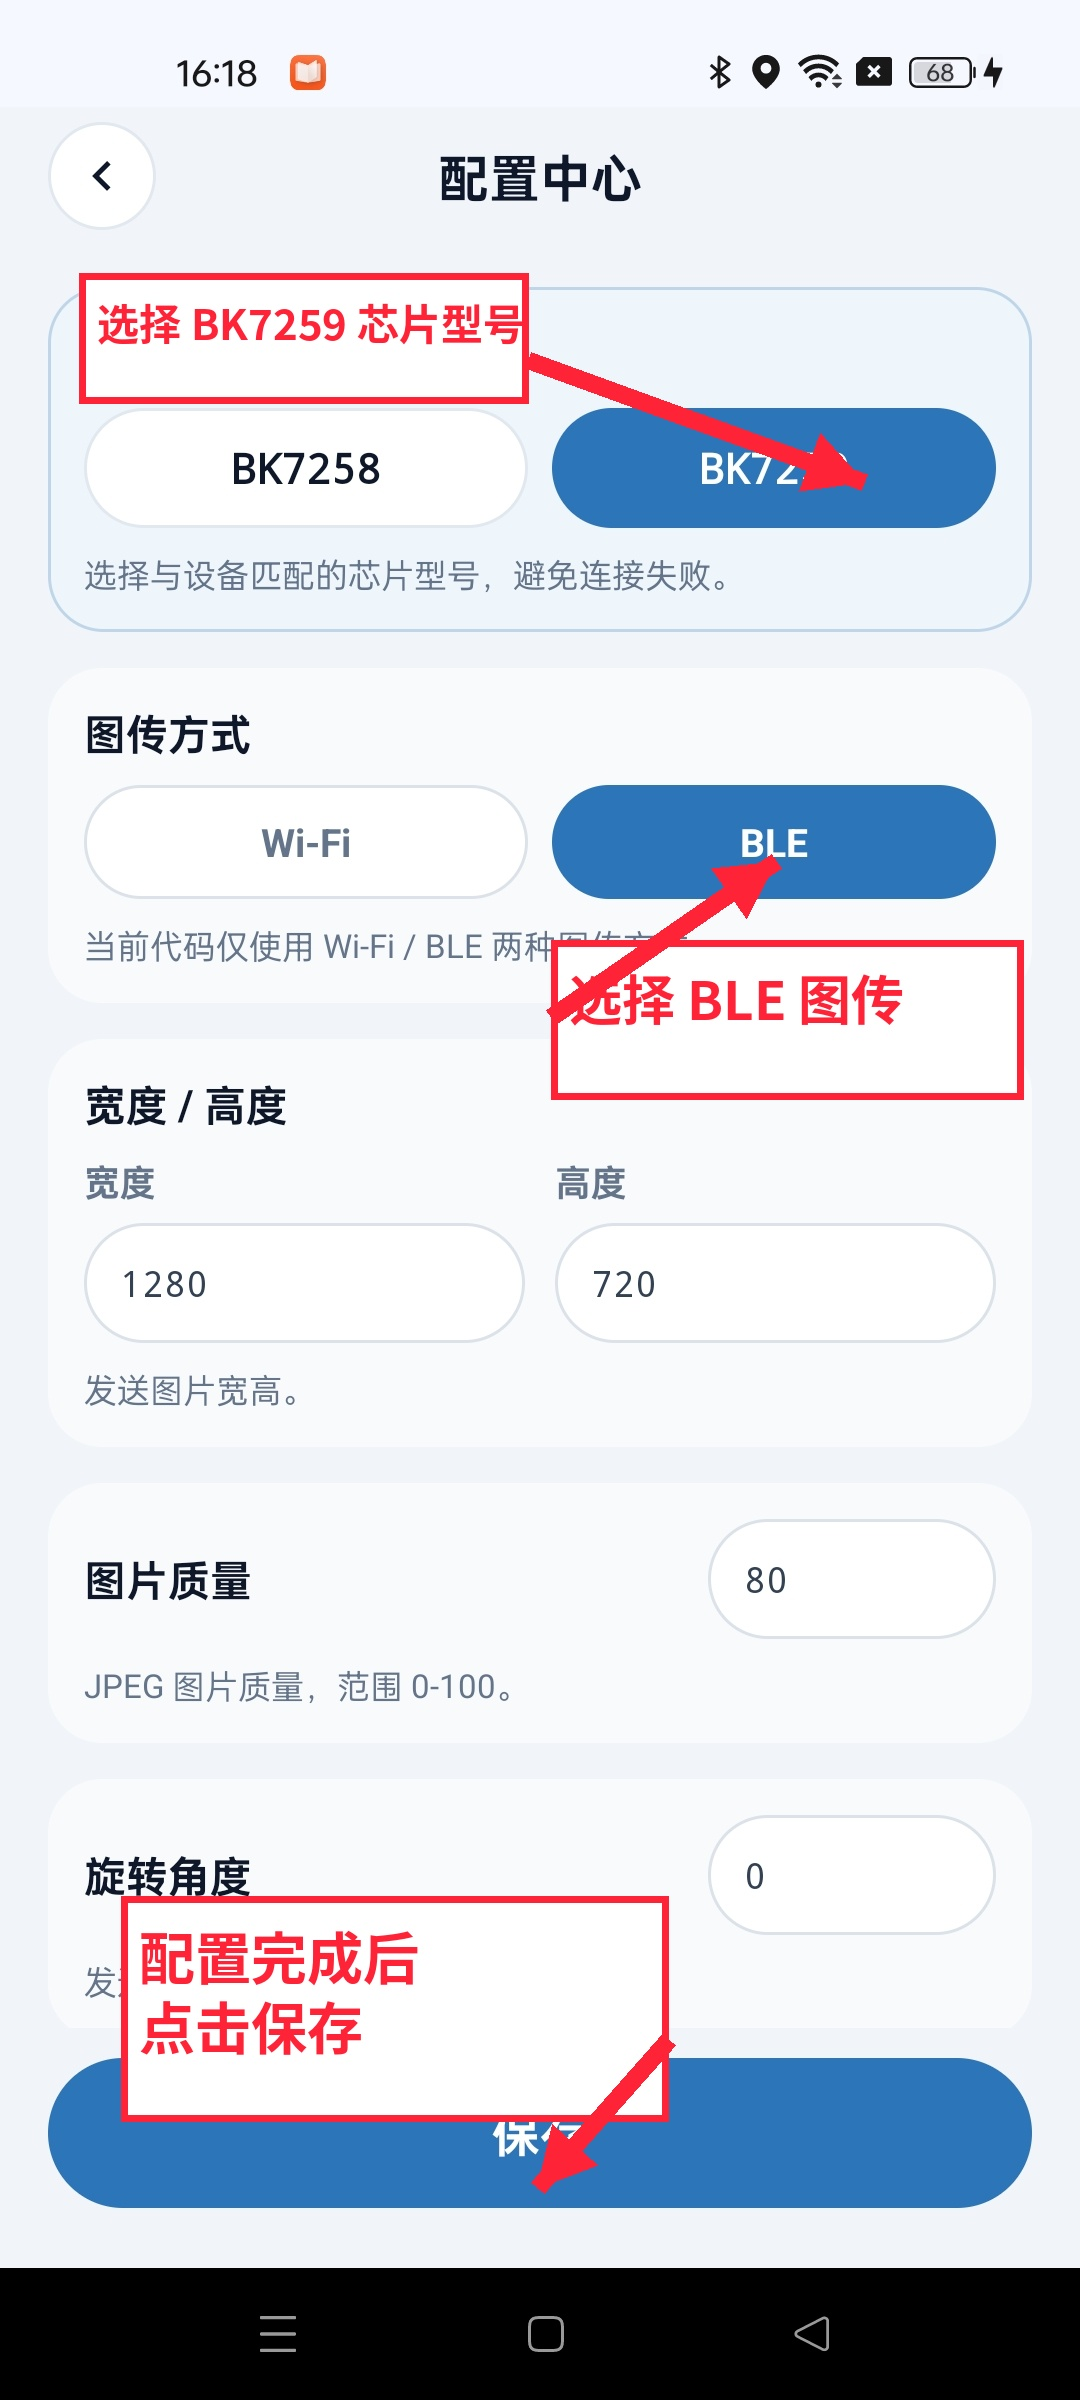
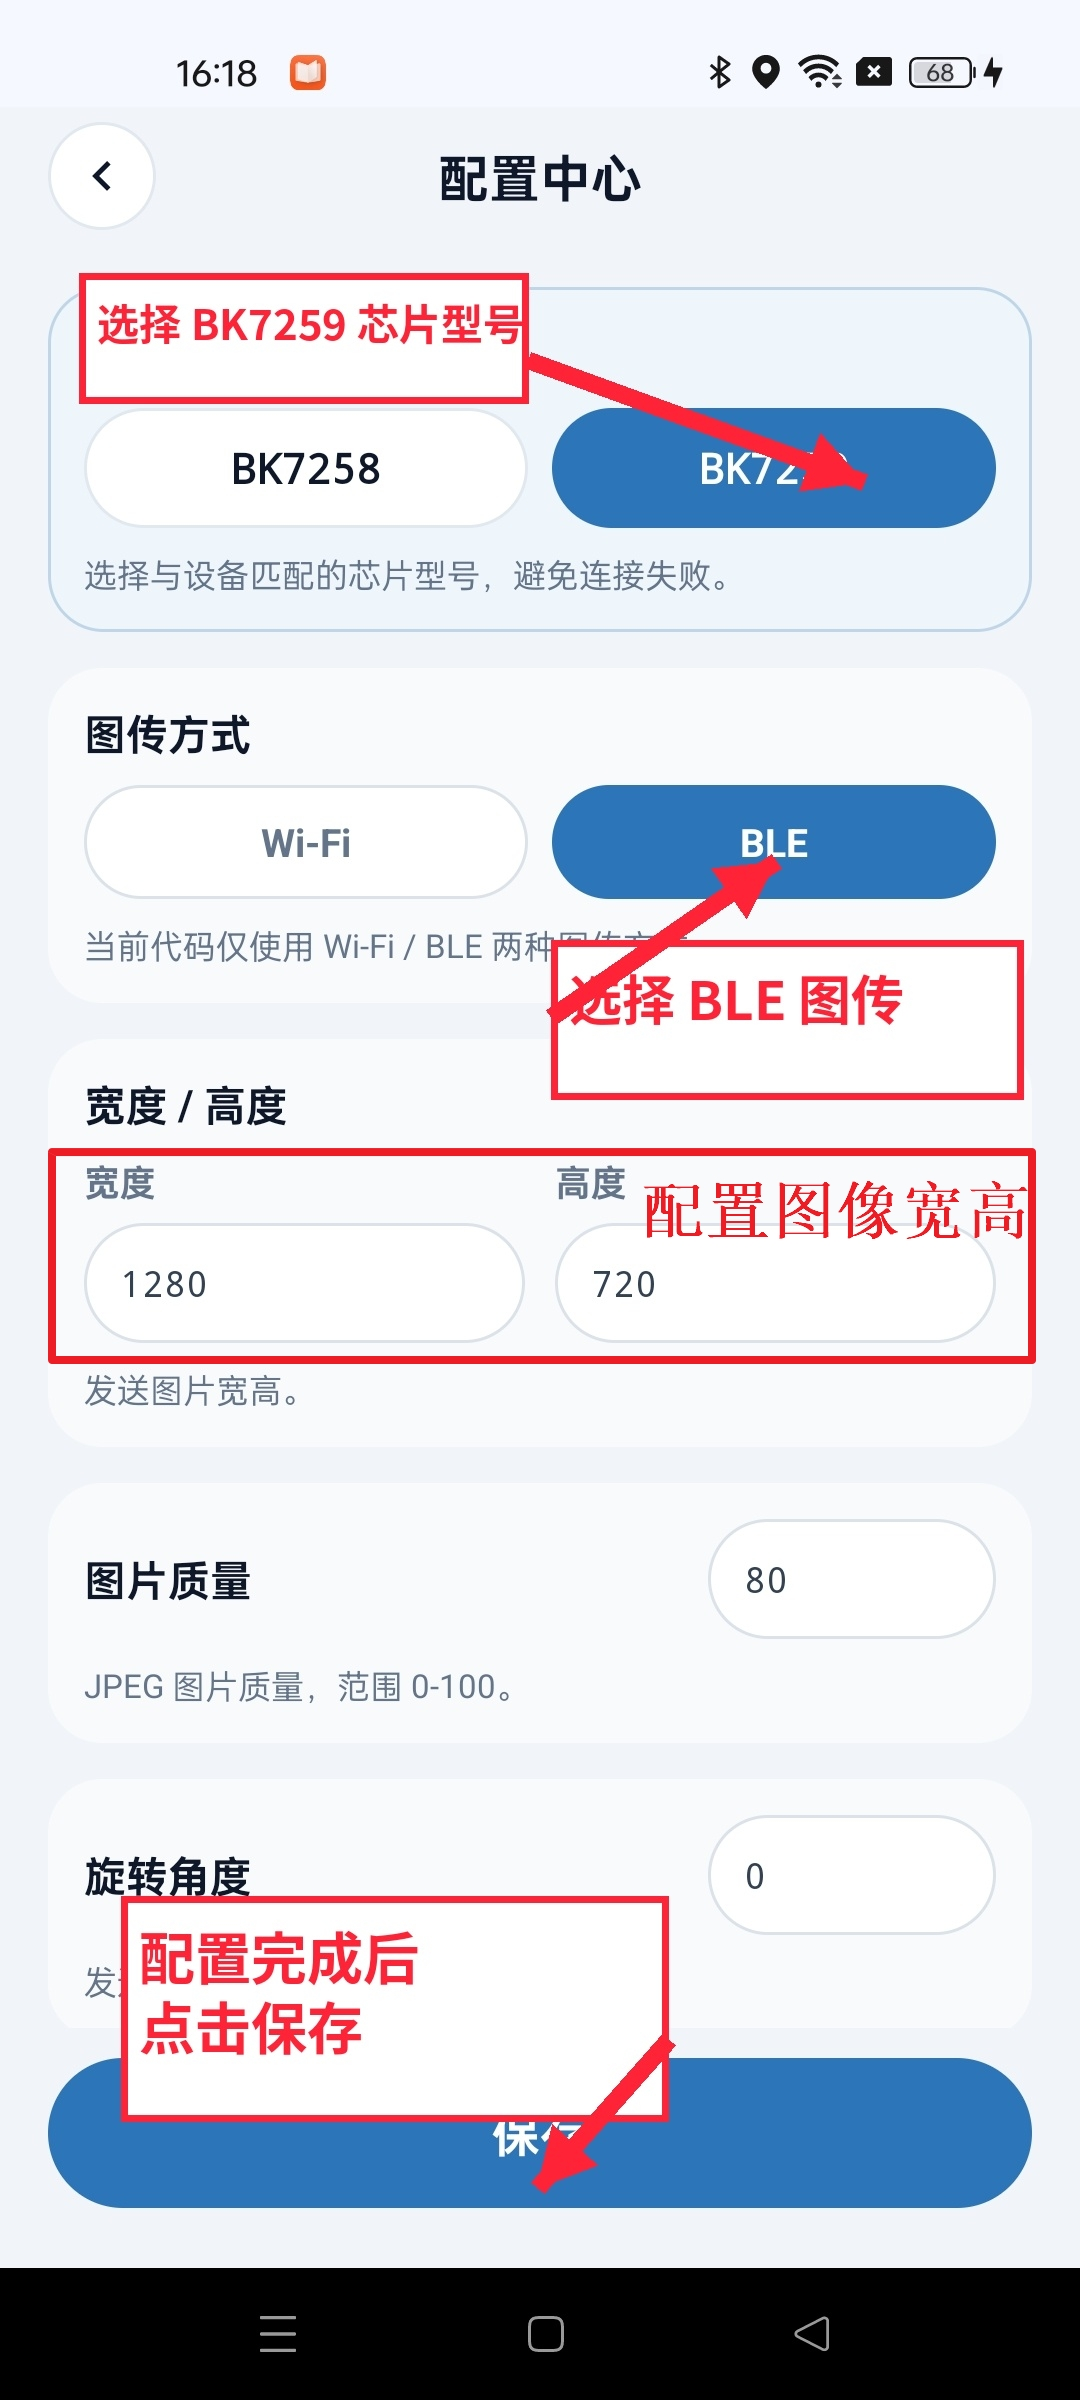
[CI] [100079]  <multimedia> <fix> doc update

Changed region(s): [[0.0306, 0.4688, 0.9778, 0.5625], [0.0611, 0.5625, 0.9472, 0.5938]]

diff --git a/docs/bk7259/en/projects/dashboard_app/index.rst b/docs/bk7259/en/projects/dashboard_app/index.rst
@@ -25,7 +25,7 @@ This app allows the development board to play navigation voice and display navig
 The following development board is used as an example.
 
 - Reset button: Reset the development board
-- K1 button: Clear network configuration information and reset the development board
+- Press and hold the Down button: Clear network configuration information and reset the development board
 
 .. figure:: ../../../_static/dashboard_app/dashboard_v1.jpg
    :alt: board
@@ -43,13 +43,13 @@ Images are transmitted via WiFi, and voice is transmitted via classic Bluetooth.
 4.1 Reset Development Board
 ,,,,,,,,,,,,,,,,,,,,,,,,,,,,,,
 
-Press the K1 button to reset the development board.
+Press and hold the Down button to reset the development board.
 
 
 4.2 Configuration
 ,,,,,,,,,,,,,,,,,,,,,,,,,,,,,,
 
-Select configuration as needed.
+Select the configuration as needed. Ensure that the width and height match the development board's screen resolution.
 
 
 .. figure:: ../../../_static/dashboard_app/config_center_0701.jpg
@@ -142,7 +142,7 @@ Images are transmitted via BLE, and voice is transmitted via classic Bluetooth.
 5.1 Reset Development Board
 ,,,,,,,,,,,,,,,,,,,,,,,,,,,,,,
 
-Press the K1 button to reset the development board.
+Press and hold the Down button to reset the development board.
 
 5.2 Settings
 ,,,,,,,,,,,,,,,,,,,,,,,,,,,,,,

diff --git a/docs/bk7259/zh_CN/projects/dashboard_app/index.rst b/docs/bk7259/zh_CN/projects/dashboard_app/index.rst
@@ -25,7 +25,7 @@ dashboard app使用指南
 以如下开发板举例。
 
 - reset 按键：复位开发板
-- k1按键: 清除配网信息并复位开发板
+- 长按下键: 清除配网信息并复位开发板
 
 .. figure:: ../../../_static/dashboard_app/dashboard_v1.jpg
    :alt: board
@@ -43,13 +43,13 @@ dashboard app使用指南
 4.1 重置开发板
 ,,,,,,,,,,,,,,,,,,,,,,,,,,,,,,
 
-点击K1按键，重置开发板。
+长按下键，重置开发板。
 
 
 4.2 配置
 ,,,,,,,,,,,,,,,,,,,,,,,,,,,,,,
 
-根据需要选择配置。
+根据需要选择配置，注意宽度和高度需要配成与开发板屏幕尺寸一致。
 
 
 .. figure:: ../../../_static/dashboard_app/config_center_0701.jpg
@@ -142,7 +142,7 @@ dashboard app使用指南
 5.1 重置开发板
 ,,,,,,,,,,,,,,,,,,,,,,,,,,,,,,
 
-点击K1按键，重置开发板。
+长按下键，重置开发板。
 
 5.2 设置
 ,,,,,,,,,,,,,,,,,,,,,,,,,,,,,,
